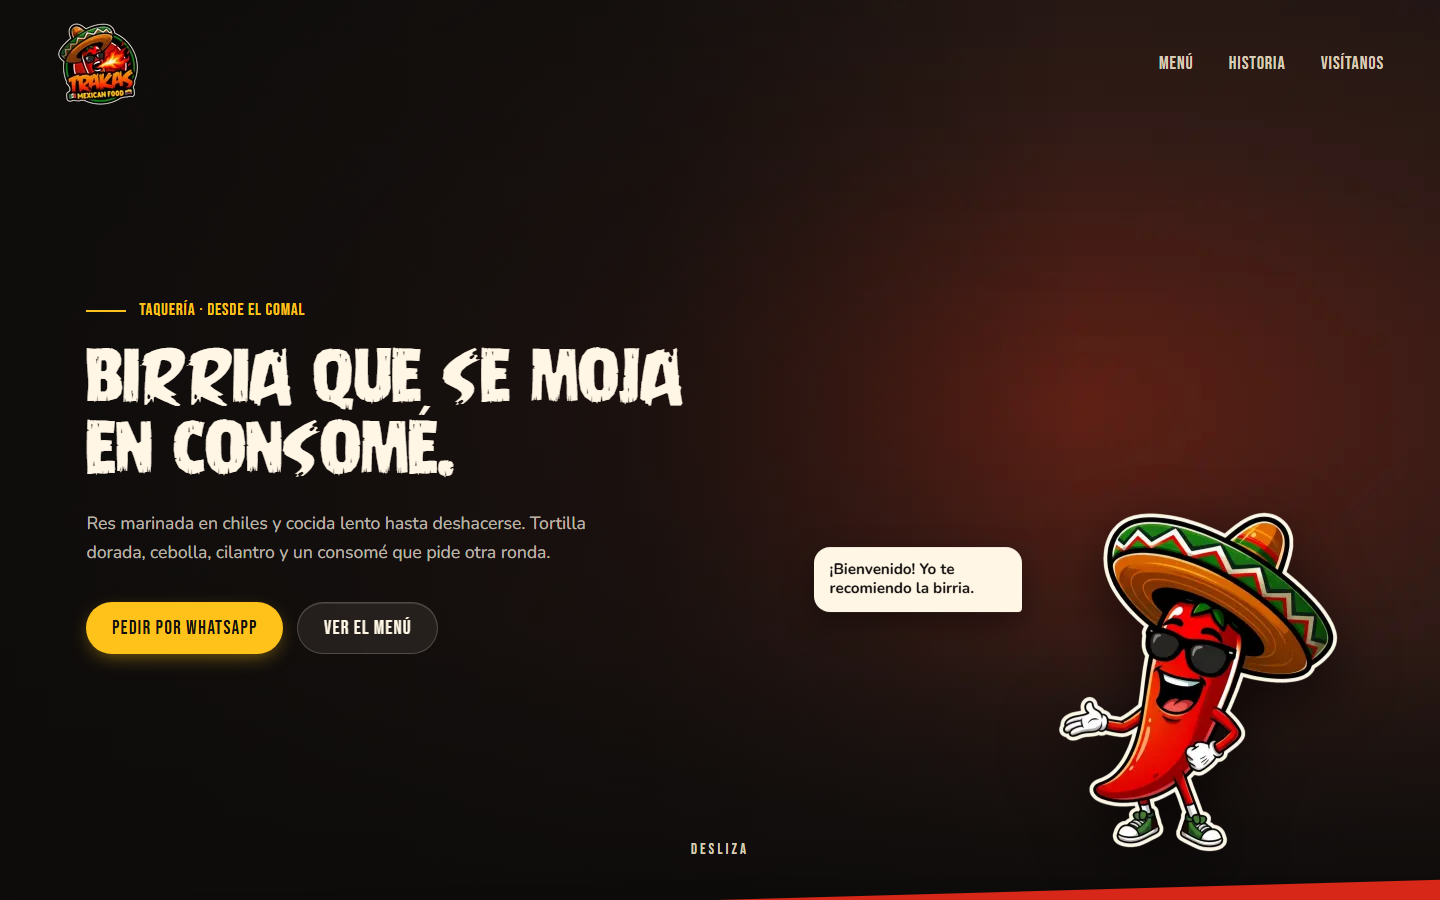
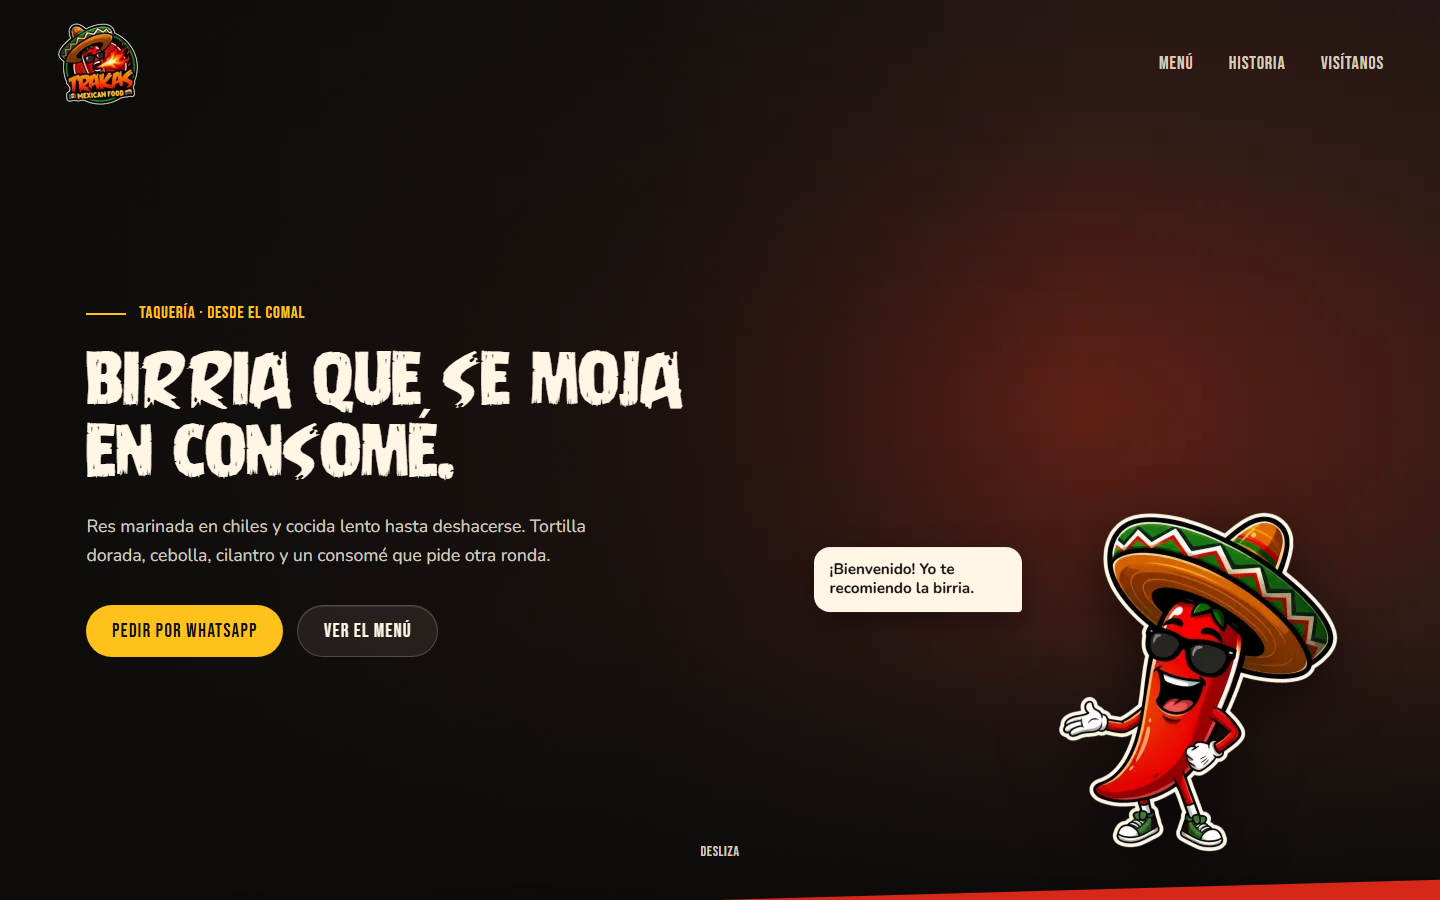
fix: portada más fiel a la maqueta B
- Sin mascota guía flotante ni sello Favorito (no estaban en B)
- Tarjetas como B: número discreto, nombre solo debajo, orden birria/ramen/volcanes/gringas
- Móvil: el Chile ya no queda pegado a los botones; texto del hero con más contraste

diff --git a/tests/e2e/portada.spec.ts b/tests/e2e/portada.spec.ts
@@ -90,10 +90,6 @@ test('móvil: hay acceso al menú desde la cabecera', async ({ page }) => {
   expect((await enlace.boundingBox())!.height).toBeGreaterThanOrEqual(44);
 });
 
-test('un solo sello "Favorito" para no diluir el énfasis', async ({ page }) => {
-  await page.goto('/');
-  await expect(page.locator('#menu .cap__sello')).toHaveCount(1);
-});
 
 test('móvil: "Pedir por WhatsApp" se ve completo sin desplazar', async ({ page }) => {
   await page.goto('/');
@@ -110,13 +106,6 @@ test('móvil: "Pedir por WhatsApp" se ve completo sin desplazar', async ({ page 
 });
 
 test.describe('escritorio', () => {
-  test('la mascota guía se oculta en la sección del Chile', async ({ page }) => {
-    await page.goto('/');
-    await page.locator('#chile').scrollIntoViewIfNeeded();
-    await page.evaluate(() => document.querySelector('#chile')!.scrollIntoView({ block: 'center' }));
-    await page.waitForTimeout(700);
-    await expect(page.locator('.guia img:visible')).toHaveCount(0);
-  });
   test.use({ viewport: { width: 1440, height: 900 }, isMobile: false, hasTouch: false });
   test('enlaces del menú superior con objetivo de 44 px', async ({ page }) => {
     await page.goto('/');

diff --git a/src/styles/portada.css b/src/styles/portada.css
@@ -8,7 +8,7 @@
 }
 .btn:active { transform: scale(.98); }
 .btn--chico { min-height: 44px; padding-inline: 1.2rem; font-size: 1.1rem; }
-.btn--sol { background: var(--maiz); color: var(--comal); box-shadow: 0 6px 20px -6px rgba(255,194,26,.55); }
+.btn--sol { background: var(--maiz); color: var(--comal); }
 .btn--sol:hover { background: #ffd04a; }
 .btn--vidrio { background: rgba(255,246,229,.08); color: var(--tortilla); border: 1px solid rgba(255,246,229,.2);
   box-shadow: inset 0 1px 0 rgba(255,255,255,.1); backdrop-filter: blur(8px); -webkit-backdrop-filter: blur(8px); }
